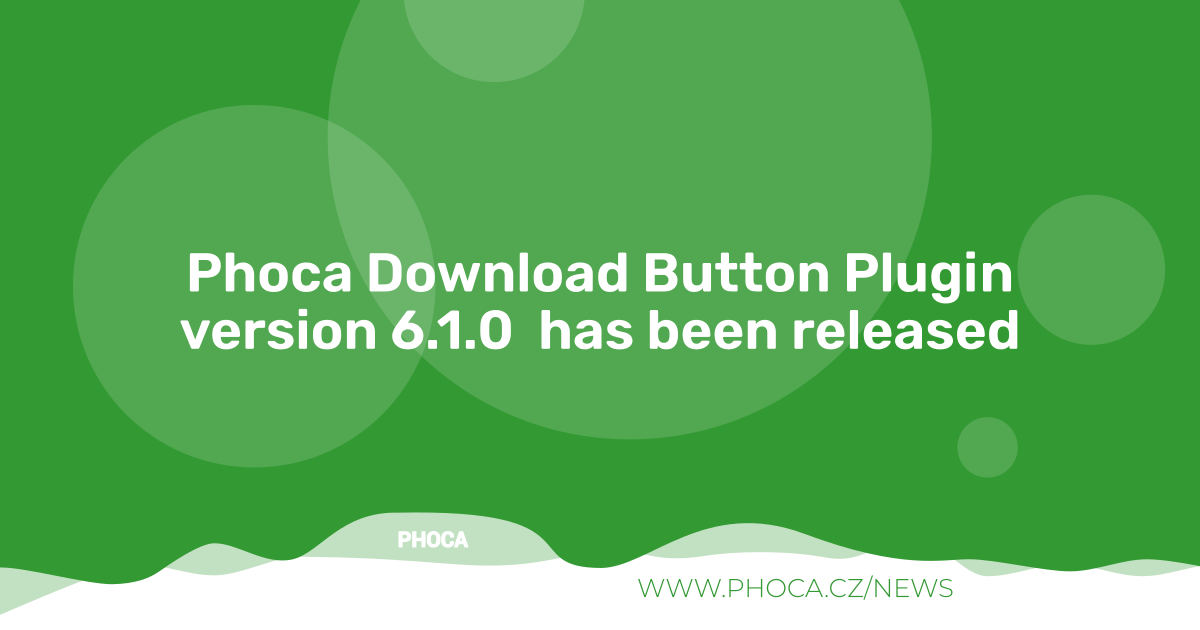
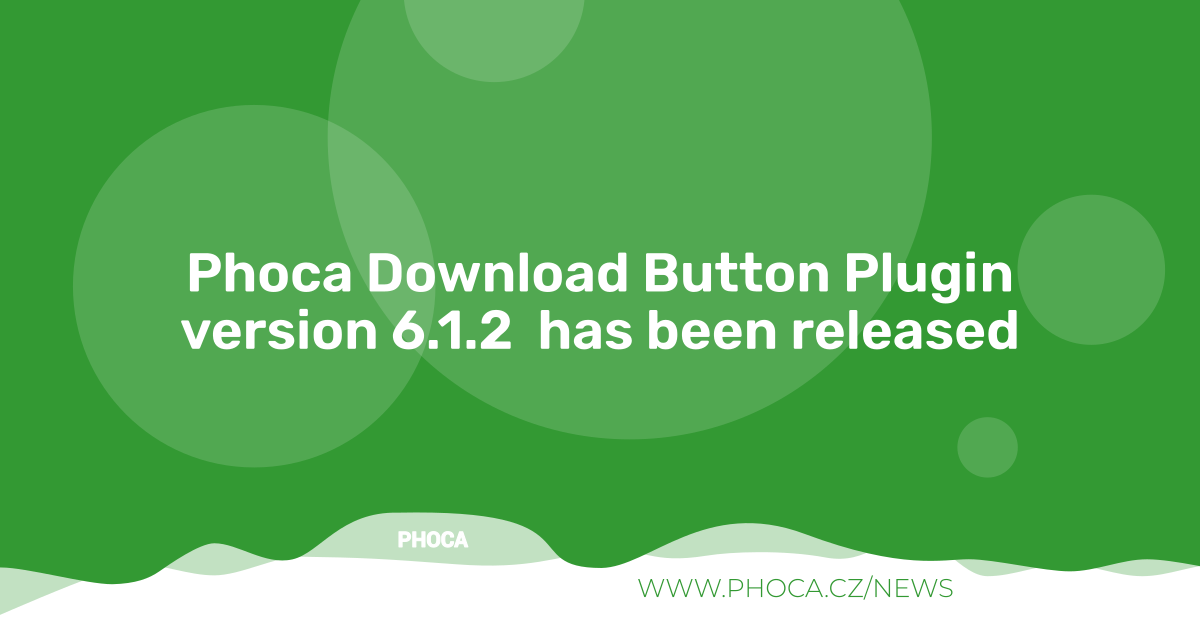
6.1.2

diff --git a/README.MD b/README.MD
@@ -20,79 +20,68 @@ Our compliance with the principles of free and open-source software is establish
 
 *This repository is a shared community resource dedicated to the global open-source ecosystem.*
 
+### Community Feedback & Contributions
 
-## Project page
+We welcome your feedback and active involvement. You can join the development and follow the progress on public, independent GitHub pages at [https://github.com/PhocaCz](https://github.com/PhocaCz).
+Any feedback, bug reports, feature suggestions, or code improvements can be submitted transparently via **GitHub Issues** or **Pull Requests** within the respective repository.
 
-[Phoca Download Button Plugin](https://www.phoca.cz/phocadownload-button)
+### Accompanying External Resources
 
-[Phoca Download Info Page](https://www.phoca.cz/project/phocadownload-joomla-download)
+If you need additional information beyond this GitHub repository, further documentation, updates, and community channels are available on the following external websites:
 
+#### External Project Information
 
-
-## Documentation
-
-[Documentation](https://www.phoca.cz/documentation/category/58-phoca-download-button-plugin)
-
-
-
-
-
-## Support
-
-[Phoca Forum](https://www.phoca.cz/forum)
-
-:bell: [Phoca Forum RSS](https://www.phoca.cz/forum/app.php/feed)
+- [Phoca Download Button Plugin](https://www.phoca.cz/phocadownload-button)
+- [Phoca Download Info Page](https://www.phoca.cz/project/phocadownload-joomla-download)
+- [Project is listed on Joomla Extensions Directory](https://extensions.joomla.org/)
+- [Project is listed on Phoca download directory](https://www.phoca.cz/download)
 
 
+#### External Documentation
 
-## News
-
-[Phoca News](https://www.phoca.cz/news)
-
-:bell: [Phoca News RSS](https://www.phoca.cz/news?format=feed&type=rss)
-
-:bell: [Phoca Latest Releases RSS](https://www.phoca.cz/download/feed/111?format=feed&type=rss)
+- [Documentation](https://www.phoca.cz/documentation/category/58-phoca-download-button-plugin)
 
 
+#### External Community Support
 
-## Demo
+- [Phoca Forum](https://www.phoca.cz/forum)
+- [Joomla Forum](https://forum.joomla.org/)
+- [Joomlaportal.cz Forum - Czech](https://www.joomlaportal.cz/forum)
+- [Joomla.de Supportforum - German](https://forum.joomla.de/)
+- :bell: [Phoca Forum RSS](https://www.phoca.cz/forum/app.php/feed)
 
-[Joomla! 1.5 Demo](https://www.phoca.cz/demo/)
+
+#### External News & Feeds
+
+- [Phoca News](https://www.phoca.cz/news)
+- [Joomlaportal.cz News](https://www.joomlaportal.cz/novinky)
+- :bell: [Phoca News RSS](https://www.phoca.cz/news?format=feed&type=rss)
+- :bell: [Phoca Latest Releases RSS](https://www.phoca.cz/download/feed/111?format=feed&type=rss)
 
 
+#### Demo
 
-## Version (Joomla! 3.x)
+- [Joomla! 1.5 Demo](https://www.phoca.cz/demo/)
 
+### Version (Joomla! 3.x - no longer supported)
 3.2.1
-
-## Version (Joomla! 4.x)
-
+### Version (Joomla! 4.x - no longer supported)
 4.0.4
-
-## Version (Joomla! 5.x)
-
+### Version (Joomla! 5.x - no longer supported)
 5.0.0
+### Version (Joomla! 6.x)
+6.1.2
 
-
-
-## License
+### License
 
 GNU/GPL
 
-
-
 This project is open source project - feel free to contribute! Thank you.
 
-
-
-## Social Media
+### Social Media
 
 - [Phoca on Facebook](https://www.facebook.com/Phoca.cz)
-
 - [Phoca on X (Twitter)](https://twitter.com/PhocaCz)
-
 - [Phoca on YouTube](https://www.youtube.com/user/phocavideos)
-
 - [Phoca on GitHub](https://github.com/PhocaCz)
-
 - [Phoca on Reddit](https://www.reddit.com/user/PhocaCz)

diff --git a/FOSS.md b/FOSS.md
@@ -1,0 +1,13 @@
+Free and Open Source Software (FOSS) Declaration
+
+This project is developed, distributed, and maintained strictly as **Free and Open Source Software (FOSS)**. It is provided entirely outside the course of any commercial activity as an independent public resource.
+
+Our compliance with the principles of free and open-source software is established by the following structural and operational guidelines:
+
+* **Strictly Non-Commercial & Public Good:** This software is provided 100% free of charge. No commercial entities control or fund this repository, and there are no commercial monetization models, paid subscriptions, or premium paywalls associated with this codebase.
+* **Independent Volunteer Contributions:** The development, maintenance, and testing of this extension are driven entirely by independent, voluntary contributions from the global community.
+* **No Commercial Technical Support:** Technical support is not provided as a paid commercial service by the maintainers of this repository. Community assistance is available on a voluntary, non-binding basis via public forums.
+* **No Proprietary Lock-in:** The software is licensed under the copyleft GNU General Public License (GPL). You have absolute freedom to run, study, share, modify, and redistribute the code.
+* **Decentralized Infrastructure:** This codebase is hosted in a public, transparent repository on GitHub to foster open collaborative development and public peer review, ensuring safety and quality through community vigilance.
+
+*This repository is a shared community resource dedicated to the global open-source ecosystem.*
